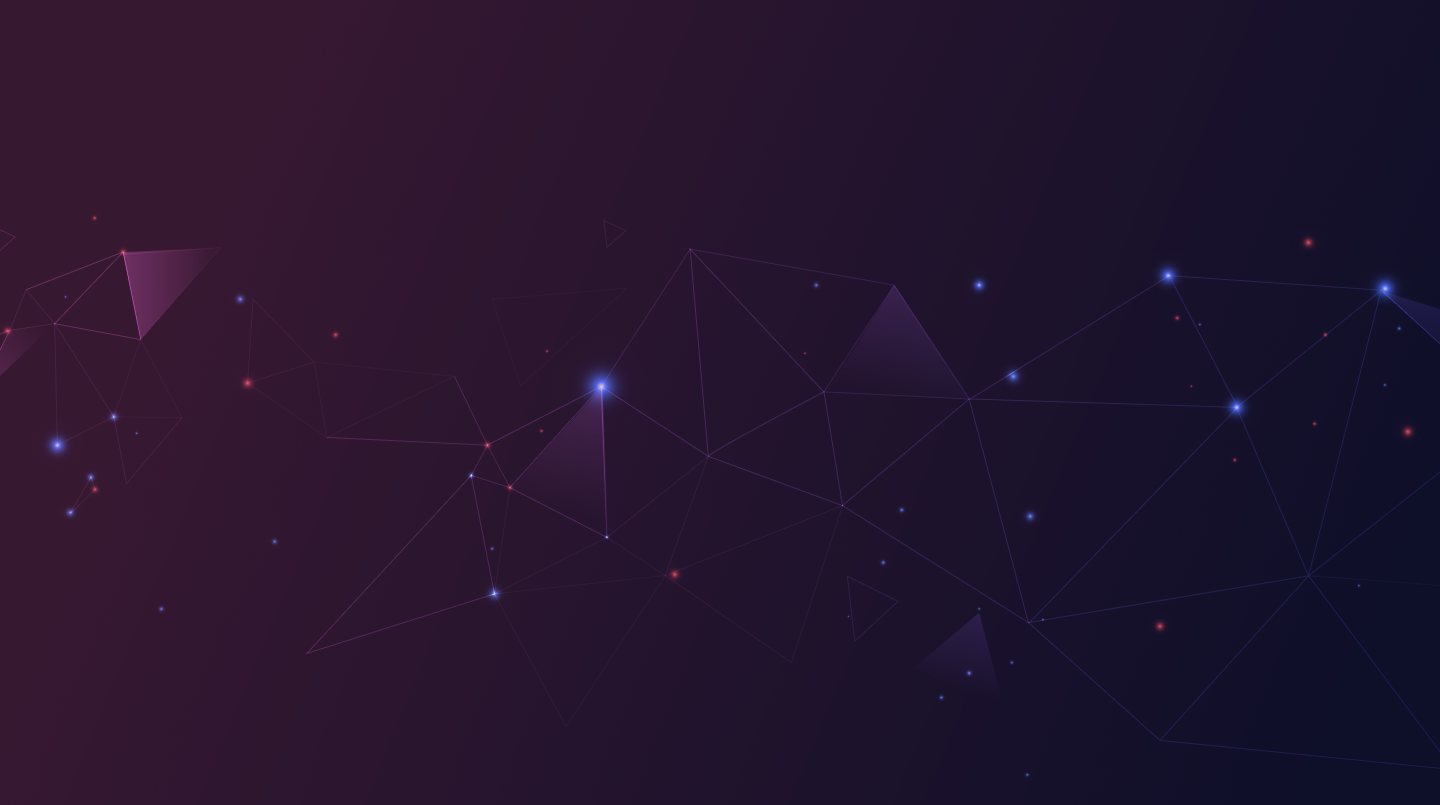
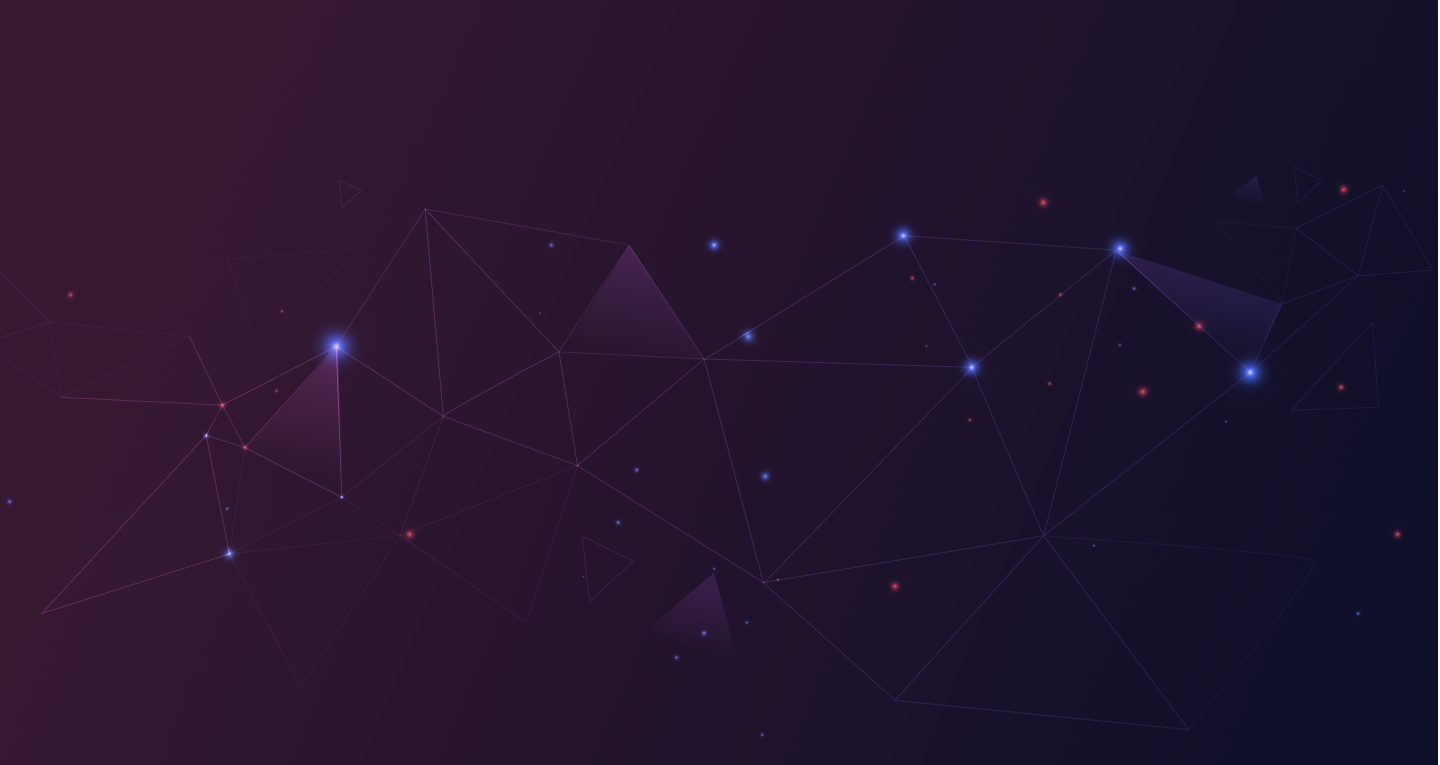
font size and background fixed

diff --git a/components/sections/WhyNetopsSection.jsx b/components/sections/WhyNetopsSection.jsx
@@ -1,5 +1,6 @@
 import React from "react";
 import AboutCard from "../cards/AboutCard";
+import BrandCard from "../cards/BrandCard";
 import Container from "../utils/Container";
 
 const netopCards = [
@@ -23,29 +24,64 @@ const netopCards = [
   },
 ];
 
+const brandList = [
+  { logoUrl: "/assets/images/b-logo-0.png" },
+  { logoUrl: "/assets/images/b-logo-1.png" },
+  { logoUrl: "/assets/images/b-logo-2.png" },
+  { logoUrl: "/assets/images/b-logo-3.png" },
+  { logoUrl: "/assets/images/b-logo-4.png" },
+];
+
 const WhyNetopsSection = () => {
   return (
-    <section className="bg-primary text-white pb-12 sm:pb-20">
-      <div className="bg-cover bg-[url('/assets/images/bg-blue.png')]">
-        <Container>
-          <div className="text-center mx-auto max-w-2xl mb-12">
-            <h5 className="inline-block text-lg font-extrabold uppercase text-gradient mb-2">
-              Why netops ninjas
-            </h5>
-            <h2 className="text-3xl sm:text-4xl lg:text-[2.75rem] font-semibold leading-tight sm:leading-tight xl:leading-tight mb-24">
-              Lorem ipsum dolor sit amet consictuor itsu.
-            </h2>
-          </div>
-          <ul className="grid grid-cols-1 md:grid-cols-2 xl:grid-cols-3 gap-x-16 gap-y-24 md:gap-y-2 lg:gap-16">
-            {netopCards.map((item, index) => (
-              <li key={`netop-card-${index}`}>
-                <AboutCard items={item} />
-              </li>
-            ))}
-          </ul>
-        </Container>
-      </div>
-    </section>
+    <>
+      <section className="bg-section text-white pb-24 sm:pb-20">
+        <div className="bg-cover bg-[url('/assets/images/bg-blue.png')]">
+          <Container>
+            <div className="text-center mx-auto max-w-2xl mb-12">
+              <h5 className="inline-block text-lg font-extrabold uppercase text-gradient mb-2">
+                Why netops ninjas
+              </h5>
+              <h2 className="text-3xl sm:text-4xl lg:text-[2.75rem] font-semibold leading-tight sm:leading-tight xl:leading-tight mb-24">
+                Lorem ipsum dolor sit amet consictuor itsu.
+              </h2>
+            </div>
+            <ul className="grid grid-cols-1 md:grid-cols-2 xl:grid-cols-3 gap-x-16 gap-y-24 md:gap-y-2 lg:gap-16 pb-20 xl:px-32">
+              {netopCards.map((item, index) => (
+                <li key={`netop-card-${index}`}>
+                  <AboutCard items={item} />
+                </li>
+              ))}
+            </ul>
+          </Container>
+          <Container>
+            <div className="text-center mx-auto max-w-2xl mb-12">
+              <h5 className="inline-block text-lg font-extrabold uppercase text-gradient mb-2">
+                our Clients
+              </h5>
+              <h2 className="text-3xl sm:text-4xl lg:text-[2.75rem] font-bold leading-tight sm:leading-tight xl:leading-tight">
+                Brands we Serve
+              </h2>
+            </div>
+            {/* == */}
+            <div>
+              <div className="mx-auto max-w-7xl px-4 sm:px-6 lg:px-8">
+                <div className="grid grid-cols-2 gap-8 md:grid-cols-6 lg:grid-cols-5">
+                  {brandList.map((item, index) => (
+                    <div
+                      key={`brand-${index}`}
+                      className="col-span-1 flex justify-center md:col-span-2 lg:col-span-1"
+                    >
+                      <BrandCard items={item} />
+                    </div>
+                  ))}
+                </div>
+              </div>
+            </div>
+          </Container>
+        </div>
+      </section>
+    </>
   );
 };
 

diff --git a/pages/about/index.js b/pages/about/index.js
@@ -67,14 +67,14 @@ const About = () => {
       <Head>
         <title>About - Netops Ninjas</title>
       </Head>
-      <main>
-        <section className="bg-primary text-white pt-12 sm:pt-20">
+      <main className="bg-section">
+        <section className="bg-section text-white pt-12 sm:pt-20">
           <Container>
             <div className="my-20 max-w-4xl mx-auto text-center pt-20">
-              <h5 className="inline-block text-xl font-extrabold uppercase text-gradient mb-3">
+              <h5 className="inline-block text-lg font-extrabold uppercase text-gradient mb-3">
                 About us
               </h5>
-              <h2 className="text-3xl sm:text-4xl lg:text-[2.75rem] font-semibold leading-tight sm:leading-tight xl:leading-tight">
+              <h2 className="text-3xl sm:text-4xl lg:text-[2.75rem] font-bold leading-tight sm:leading-tight xl:leading-tight">
                 Lorem Ipsum Dolor Sit Amet Consectutor Matahari Stella le aiyang
               </h2>
               <p className="mt-6 max-w-xl mx-auto text-[1.375rem] text-gray-200">
@@ -105,13 +105,13 @@ const About = () => {
           </div>
         </section>
 
-        <section className="bg-primary text-white pt-12 sm:pt-20">
+        <section className="bg-section text-white pt-12 sm:pt-20">
           <Container>
             <div className="my-20 max-w-4xl mx-auto text-center pt-2">
-              <h5 className="inline-block text-xl font-extrabold uppercase text-gradient mb-3">
+              <h5 className="inline-block text-lg font-extrabold uppercase text-gradient mb-3">
                 About us
               </h5>
-              <h2 className="text-3xl sm:text-4xl lg:text-[2.75rem] font-semibold leading-tight sm:leading-tight xl:leading-tight">
+              <h2 className="text-3xl sm:text-4xl lg:text-[2.75rem] font-bold leading-tight sm:leading-tight xl:leading-tight">
                 Lorem Ipsum Dolor Sit Amet Consectutor Matahari Stella le aiyang
               </h2>
               <p className="mt-6 max-w-xl mx-auto text-[1.375rem] text-gray-200">
@@ -121,7 +121,7 @@ const About = () => {
             </div>
           </Container>
         </section>
-        <section className="bg-primary text-white pt-12 sm:pt-20">
+        <section className="bg-section text-white pt-12 sm:pt-20">
           <div className="mx-auto max-w-xl px-6 lg:max-w-7xl lg:px-8">
             <dl className="grid grid-cols-1 gap-16 lg:grid lg:grid-cols-3">
               {features.map((feature) => (

diff --git a/components/sections/WhatWeDoSection.jsx b/components/sections/WhatWeDoSection.jsx
@@ -8,7 +8,7 @@ const servicesList = [
     iconUrl: "/assets/icons/as-06.svg",
     title: "Networking",
     description: `End-to-end payments and financial management in a single solution. Meet the right platform.`,
-    link: "#",
+    link: "/networking",
   },
   {
     iconUrl: "/assets/icons/az-06.png",
@@ -52,7 +52,7 @@ const servicesList = [
 
 const WhatWeDoSection = () => {
   return (
-    <section className="text-white relative bg-cover bg-center bg-[url('/assets/images/bg-servics.png')]">
+    <section className="pt-16 text-white relative bg-cover bg-center bg-[url('/assets/images/bg-servics.png')]">
       <span className="z-10 absolute top-0 left-0 w-full h-full bg-gradient-to-r from-primary via-primary to-[#53143B] opacity-80" />
       <span className="absolute z-10 w-96  top-1/2 left-1/2 -translate-x-1/2 -translate-y-1/2 shadow-blue-overlay" />
 
@@ -62,10 +62,10 @@ const WhatWeDoSection = () => {
             <div className="relative h-16 w-12 mx-auto mb-2">
               <Image fill src="/assets/images/arrow.png" alt="..." />
             </div>
-            <h5 className="inline-block text-xl font-extrabold uppercase text-gradient mb-3">
+            <h5 className="inline-block text-lg font-extrabold uppercase text-gradient mb-3">
               What we do
             </h5>
-            <h2 className="text-3xl sm:text-4xl lg:text-[2.75rem] font-semibold leading-tight sm:leading-tight xl:leading-tight">
+            <h2 className="text-3xl sm:text-4xl lg:text-[2.75rem] font-bold leading-tight sm:leading-tight xl:leading-tight">
               Lorem Ipsum Dolor Sit Amet Consectutor Matahari Stella le aiyang
             </h2>
             <p className="mt-6 max-w-xl mx-auto text-[1.375rem] text-gray-200">
@@ -74,7 +74,7 @@ const WhatWeDoSection = () => {
             </p>
           </div>
 
-          <div className="py-12 sm:py-20">
+          <div className="pt-2 pb-12 sm:pb-24">
             <div className="xl:max-w-5xl mx-auto">
               <ul className="grid grid-cols-1 md:grid-cols-2 gap-8">
                 {servicesList.map((item, index) => (

diff --git a/components/sections/TestimonialSection.jsx b/components/sections/TestimonialSection.jsx
@@ -33,17 +33,17 @@ const testimonialList = [
 
 const TestimonialSection = () => {
   return (
-    <section className="bg-primary text-white pt-24 pb-12 sm:pb-20">
-      <Container>
-        <div className="relative">
-          <span className="hidden xl:block absolute top-3/4 -translate-y-1/2 left-0 h-96 w-96">
-            <Image fill src="/assets/images/bg-t-left.png" alt="..." />
-          </span>
+    <section className="bg-section text-white sm:pt-24 pb-12 sm:pb-20">
+      <div className="relative">
+        <span className="hidden xl:block absolute top-3/4 -translate-y-1/2 left-0 h-96 w-96">
+          <img src="/assets/images/bg-t-left1.png" width="100%" alt="..." />
+        </span>
 
-          <span className="hidden xl:block absolute top-3/4 -translate-y-1/2 right-0 h-96 w-96">
-            <Image fill src="/assets/images/bg-t-right.png" alt="..." />
-          </span>
+        <span className="hidden xl:block absolute top-3/4 -translate-y-1/2 right-0 h-96 w-96">
+          <img src="/assets/images/bg-t-right1.png" width="100%" alt="..." />
+        </span>
 
+        <Container>
           <div className="mx-auto max-w-3xl">
             <div className="text-center mb-12">
               <h5 className="inline-block text-lg font-extrabold uppercase text-gradient mb-2">
@@ -53,6 +53,7 @@ const TestimonialSection = () => {
                 Check what our clients are saying
               </h2>
             </div>
+
             {/* === */}
             <Swiper
               className="testimonial-swiper"
@@ -70,8 +71,8 @@ const TestimonialSection = () => {
               ))}
             </Swiper>
           </div>
-        </div>
-      </Container>
+        </Container>
+      </div>
     </section>
   );
 };

diff --git a/pages/support/index.js b/pages/support/index.js
@@ -12,8 +12,8 @@ const SupportPage = () => {
       <Head>
         <title>Support - Netops Ninjas</title>
       </Head>
-      <main>
-        <section className="relative bg-primary text-white py-12 sm:py-20">
+      <main className="bg-section">
+        <section className="relative bg-section text-white py-12 sm:py-20">
           <span className="absolute inset-0">
             <Image fill src="/assets/images/bg-lines.svg" alt="..." />
           </span>
@@ -24,7 +24,7 @@ const SupportPage = () => {
                   <h5 className="inline-block text-lg font-extrabold uppercase text-gradient mb-4">
                     24/7 Support
                   </h5>
-                  <h2 className="text-3xl sm:text-4xl lg:text-[2.75rem] font-semibold leading-tight sm:leading-tight xl:leading-tight mb-6">
+                  <h2 className="text-3xl sm:text-4xl lg:text-[2.75rem] font-bold leading-tight sm:leading-tight xl:leading-tight mb-6">
                     Get Our Help Fast
                   </h2>
                   <p className="mb-16 lg:max-w-xl text-[1.375rem] text-gray-200">
@@ -72,7 +72,7 @@ const SupportPage = () => {
             </div>
           </Container>
         </section>
-        <section className="bg-gradient-to-br from-primary via-primary to-[#53143B] text-white pb-12 sm:pb-20 lg:mt-56">
+        <section className="bg-section text-white pb-12 sm:pb-20 lg:mt-56">
           <Container>
             <div className="mb-12 max-w-4xl mx-auto text-center pt-2">
               <h2 className="text-3xl sm:text-4xl lg:text-[2.75rem] font-semibold leading-tight sm:leading-tight xl:leading-tight">

diff --git a/components/sections/HeroSection.jsx b/components/sections/HeroSection.jsx
@@ -23,14 +23,14 @@ const HeroSection = () => {
           muted
         />
       </span>
-      <div className="relative z-10 py-14 sm:py-32 md:py-36 lg:py-40 text-white">
+      <div className="relative z-10 py-14 sm:py-32 md:py-44 lg:py-52 text-white">
         <Container>
           <div className="text-center mx-auto max-w-2xl">
-            <h1 className="text-3xl sm:text-5xl lg:text-6xl font-suiGeneris font-normal mb-10">
+            <h1 className="text-2xl sm:text-5xl lg:text-6xl font-suiGeneris font-normal mb-10">
               We do the IT: you grow your{" "}
               <span className="text-line">Business</span>
             </h1>
-            <p className="text-xl md:text-2xl font-DMSans font-normal max-w-xl mx-auto mb-12">
+            <p className="text-lg md:text-2xl font-DMSans font-normal max-w-xl mx-auto mb-12">
               Lorem ipsum dolor sit amet consectetur. Tempus vestibulum interdum
               scelerisque dui in est orci lectus nisl bibendum.
             </p>

diff --git a/pages/privacy-settings/index.js b/pages/privacy-settings/index.js
@@ -10,8 +10,8 @@ const PrivacySettings = () => {
         <title>Privacy Settings - Netops Ninjas</title>
       </Head>
 
-      <div className="grid grid-cols-7">
-        <aside className="self-start mx-auto sticky top-[10rem] col-span-2 hidden md:block">
+      <div className="grid grid-cols-7 bg-section">
+        <aside className="self-start mx-auto sticky mb-10 top-[10rem] col-span-2 hidden md:block">
           <Link href="/privacy-settings" aria-label="Privacy Setting Page">
             <h5 className="text-xl text-blue-dark mb-3 border-l-4 border-current pl-2">
               Privacy Settings
@@ -44,7 +44,7 @@ const PrivacySettings = () => {
           </Link>
         </aside>
 
-        <main className="col-span-7 md:col-span-5 bg-primary text-white">
+        <main className="col-span-7 md:col-span-5 text-white">
           <Container>
             <div className="my-36 max-w-4xl">
               <div>

diff --git a/pages/gpdr-compliance/index.js b/pages/gpdr-compliance/index.js
@@ -10,8 +10,8 @@ const GPDRCompliance = () => {
         <title>GPDR Compliance - Netops Ninjas</title>
       </Head>
 
-      <div className="grid grid-cols-7">
-        <aside className="self-start mx-auto sticky top-[10rem] col-span-2 hidden md:block">
+      <div className="grid grid-cols-7 bg-section">
+        <aside className="self-start mx-auto sticky mb-10 top-[10rem] col-span-2 hidden md:block">
           <Link href="/privacy-settings" aria-label="Privacy Setting Page">
             <h5 className="text-xl text-blue-dark mb-5">Privacy Settings</h5>
           </Link>
@@ -34,7 +34,7 @@ const GPDRCompliance = () => {
           </ul>
         </aside>
 
-        <main className="col-span-7 md:col-span-5 bg-primary text-white">
+        <main className="col-span-7 md:col-span-5 text-white">
           <Container>
             <div className="my-36 max-w-4xl">
               <div>

diff --git a/pages/privacy-policy/index.js b/pages/privacy-policy/index.js
@@ -10,8 +10,8 @@ const PrivacyPolicy = () => {
         <title>Privacy Policy - Netops Ninjas</title>
       </Head>
 
-      <div className="grid grid-cols-7">
-        <aside className="self-start mx-auto sticky top-[10rem] col-span-2 hidden md:block">
+      <div className="grid grid-cols-7 bg-section">
+        <aside className="self-start mx-auto sticky mb-10 top-[10rem] col-span-2 hidden md:block">
           <Link href="/privacy-settings" aria-label="Privacy Setting Page">
             <h5 className="text-xl text-blue-dark mb-5">Privacy Settings</h5>
           </Link>
@@ -34,7 +34,7 @@ const PrivacyPolicy = () => {
           </Link>
         </aside>
 
-        <main className="col-span-7 md:col-span-5 bg-primary text-white">
+        <main className="col-span-7 md:col-span-5 text-white">
           <Container>
             <div className="my-36 max-w-4xl">
               <div>

diff --git a/pages/terms/index.js b/pages/terms/index.js
@@ -10,8 +10,8 @@ const Terms = () => {
         <title>Terms - Netops Ninjas</title>
       </Head>
 
-      <div className="grid grid-cols-7">
-        <aside className="self-start mx-auto sticky top-[10rem] col-span-2 hidden md:block">
+      <div className="grid grid-cols-7 bg-section">
+        <aside className="self-start mx-auto sticky mb-10 top-[10rem] col-span-2 hidden md:block">
           <Link href="/privacy-settings" aria-label="Privacy Setting Page">
             <h5 className="text-xl text-blue-dark mb-5">Privacy Settings</h5>
           </Link>
@@ -40,7 +40,7 @@ const Terms = () => {
           </Link>
         </aside>
 
-        <main className="col-span-7 md:col-span-5 bg-primary text-white">
+        <main className="col-span-7 md:col-span-5 text-white">
           <Container>
             <div className="my-36 max-w-4xl">
               <div>

diff --git a/components/sections/AboutSection.jsx b/components/sections/AboutSection.jsx
@@ -6,7 +6,7 @@ import { ArrowFullIcon } from "../utils/Icons";
 
 const AboutSection = () => {
   return (
-    <section className="bg-primary text-white pt-12 sm:pt-20">
+    <section className="bg-section text-white pt-12 sm:pt-20">
       <Container>
         <div className="mx-auto max-w-6xl">
           <div className="grid grid-cols-1 lg:grid-cols-2 gap-8 items-center">
@@ -24,7 +24,7 @@ const AboutSection = () => {
               </p>
               <Link
                 href="#"
-                className="bg-g-primary text-white text-lg font-semibold rounded-xl py-5 px-10 hover:opacity-90 transition-all duration-300"
+                className="bg-g-primary text-white text-lg font-bold rounded-xl py-5 px-10 hover:opacity-90 transition-all duration-300"
               >
                 Learn more
               </Link>

diff --git a/components/sections/OurClientsSection.jsx b/components/sections/OurClientsSection.jsx
@@ -12,7 +12,7 @@ const brandList = [
 
 const OurClientsSection = () => {
   return (
-    <section className="bg-primary text-white pb-12 sm:pb-20">
+    <section className="bg-section text-white pb-12 sm:pb-20">
       <Container>
         <div className="text-center mx-auto max-w-2xl mb-12">
           <h5 className="inline-block text-lg font-extrabold uppercase text-gradient mb-2">
